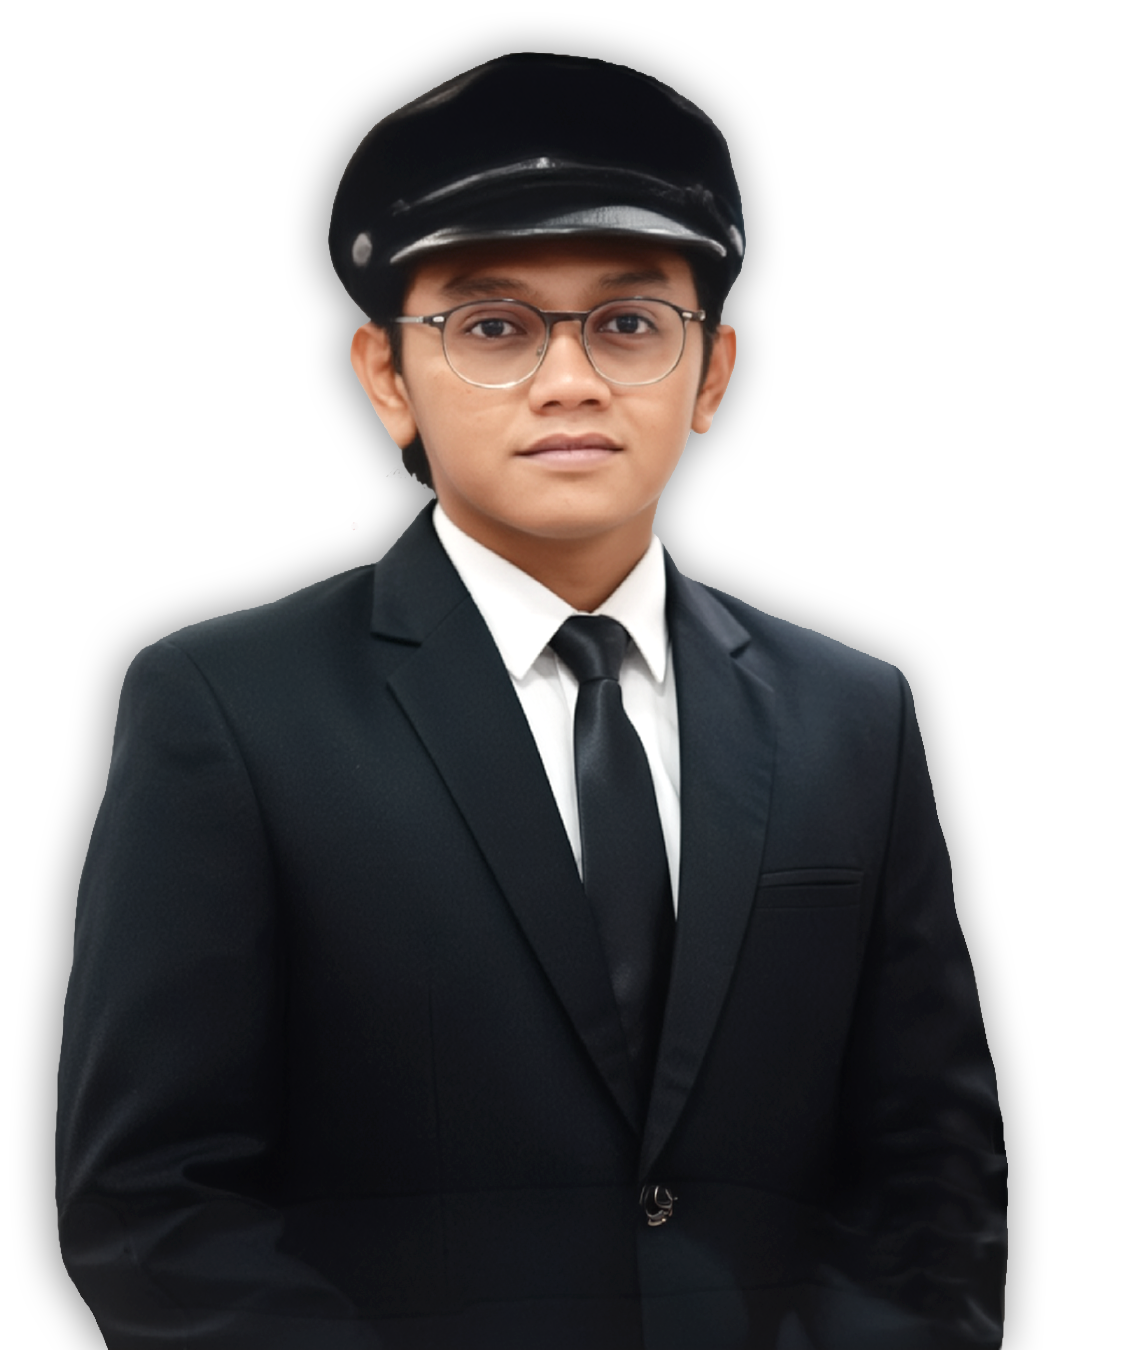
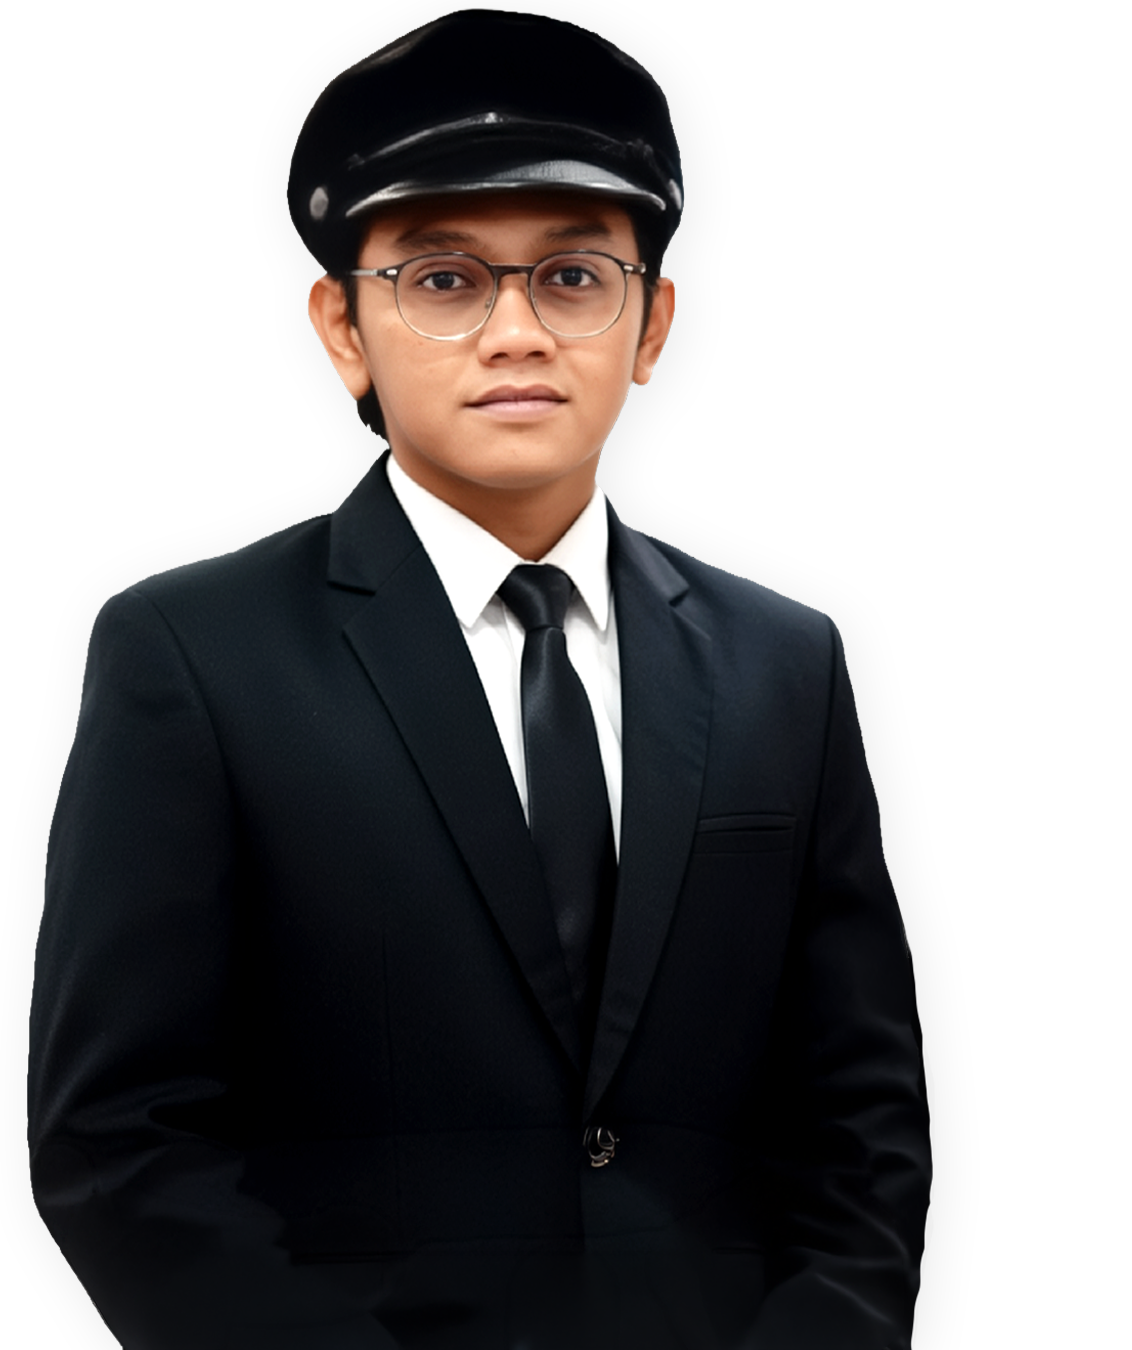
update : foto pengurus

diff --git a/resources/js/struktur.jsx b/resources/js/struktur.jsx
@@ -31,7 +31,7 @@ const boardMembers = [
         role: 'Ketua 2',
         name: 'Jeffry Yulianto Waisapy',
         bio: 'Membangun komunikasi publik dan memperkuat citra organisasi.',
-        photo: '/images/pengurus/jefry.jpg',
+        photo: '/images/pengurus/jefry.png',
     },
     {
         role: 'Ketua 3',
@@ -49,25 +49,25 @@ const boardMembers = [
         role: 'Wakil Sekretaris Jenderal',
         name: 'Sulistianing Sasih',
         bio: 'Mengelola publikasi visual, konten digital, dan kanal komunikasi organisasi.',
-        photo: '/images/pengurus/sulistia.jpg',
+        photo: '/images/pengurus/sulistia.png',
     },
     {
         role: 'Wakil Bendahara Umum',
         name: 'Eka Arum Maqshuuroh',
         bio: 'Menyusun kajian, riset kebijakan, dan rekomendasi berbasis data lapangan.',
-        photo: '/images/pengurus/harum.jpg',
+        photo: '/images/pengurus/harum.png',
     },
     {
         role: 'Wakil Bendahara Umum',
         name: 'Tia Fathiah',
         bio: 'Mendampingi isu strategis masyarakat dan memperjuangkan aspirasi publik.',
-        photo: '/images/pengurus/tia.jpg',
+        photo: '/images/pengurus/tia.png',
     },
     {
         role: 'Bendahara Umum',
         name: 'Fajar Muhammad Faiz Rozi',
         bio: 'Menjaga transparansi keuangan serta pengelolaan anggaran program.',
-        photo: '/images/pengurus/pfaiz.jpg',
+        photo: '/images/pengurus/pfaiz.png',
     },
 ];
 
@@ -79,6 +79,9 @@ function StrukturPage() {
 
     const goNext = () => {
         setCurrentIndex((prev) => (prev + 1) % totalMembers);
+    };
+    const goPrev = () => {
+        setCurrentIndex((prev) => (prev - 1 + totalMembers) % totalMembers);
     };
 
     const activeMember = boardMembers[currentIndex];
@@ -105,17 +108,28 @@ function StrukturPage() {
                             <div className="mt-10 flex items-center gap-3">
                                 <button
                                     type="button"
+                                    onClick={goPrev}
+                                    className="inline-flex items-center gap-3 bg-zinc-300 text-black px-6 py-2.5 text-sm font-semibold uppercase tracking-widest shadow transition hover:translate-y-[-1px]"
+                                    aria-label="Previous pengurus"
+                                >
+                                    Prev
+                                </button>
+                                <button
+                                    type="button"
                                     onClick={goNext}
                                     className="inline-flex items-center gap-3 bg-[#b3181f] text-white px-6 py-2.5 text-sm font-semibold uppercase tracking-widest shadow-[0_10px_24px_rgba(179,24,31,0.35)] transition hover:translate-y-[-1px]"
                                     aria-label="Next pengurus"
                                 >
                                     Next
                                 </button>
+
+
                                 <div className="hidden sm:flex items-center gap-2 text-xs uppercase tracking-[0.3em] text-zinc-500">
                                     <span>{currentIndex + 1}</span>
                                     <span>/</span>
                                     <span>{totalMembers}</span>
                                 </div>
+
                             </div>
                         </div>
                     </div>
@@ -126,7 +140,8 @@ function StrukturPage() {
                             src="/images/struktur/atribut 1.png"
                             alt=""
                             aria-hidden="true"
-                            className="absolute right-0 top-0 h-[70%] sm:h-[75%] md:h-[90%] w-auto pointer-events-none z-40 translate-x-14" />
+
+                            className="absolute right-0 top-0 h-[60%] sm:h-[75%] md:h-[90%] w-auto pointer-events-none z-40 translate-x-0" />
                         <img
                             src={activeMember.photo || fallbackPhoto}
                             alt={activeMember.name}
